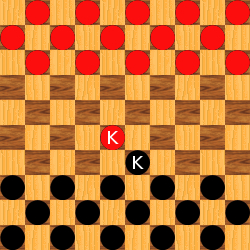
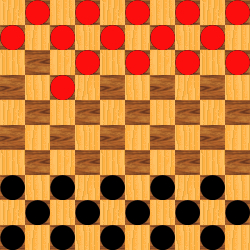
rules

diff --git a/gamerules.js b/gamerules.js
@@ -1,0 +1,314 @@
+function Game(player1, player2) {
+	this.red = player1;
+	this.black = player2;
+	this.board = [
+	// 0 , 1 , 2 , 3 , 4 , 5 , 6 , 7 , 8 , 9
+	 ['e','r','e','r','e','r','e','r','e','r'], // 0
+	 ['r','e','r','e','r','e','r','e','r','e'], // 1
+	 ['e','r','e','r','e','r','e','r','e','r'], // 2
+	 ['e','e','e','e','e','e','e','e','e','e'], // 3
+	 ['e','e','e','e','e','e','e','e','e','e'], // 4
+	 ['e','e','e','e','e','e','e','e','e','e'], // 5
+	 ['e','e','e','e','e','e','e','e','e','e'], // 6
+	 ['b','e','b','e','b','e','b','e','b','e'], // 7
+	 ['e','b','e','b','e','b','e','b','e','b'], // 8
+	 ['b','e','b','e','b','e','b','e','b','e']  // 9
+	
+	];
+}
+var testgame = new Game("p1","p2");
+
+var jimp  = require("jimp");
+var board = new jimp.read("Images/DraughtsBoard.png");
+var red = new jimp.read("Images/RedDraughtsPeice.png");
+var black = new jimp.read("Images/BlackDraughtsPeice.png");
+var blackKing = new jimp.read("Images/BlackDraughtsPeiceKing.png");
+var redKing = new jimp.read("Images/RedDraughtsPeiceKing.png");	
+	
+
+// check diagnals immediately around the piece location
+
+function checkmove(sY,sX,eY,eX,color,king,gboard) {
+	console.log(sX + " - " + sY);
+	console.log(gboard[sX][sY]);
+	console.log(eX + " - " + eY);
+	console.log(gboard[eX][eY]);
+	
+	// end location valid
+	if(eX < 0 || eX > 9 || eY < 0 || eY > 9 || eY == sY || eX == sX) {
+		console.log("end location invalid! - ");
+		return false;
+	}
+	
+	// check horizontal and vertical move is attempted
+	if(sX == eX || sY == eY) {
+		console.log("horizontal move! - ");
+		return false;
+	}
+	
+	// check distance too far
+	if( Math.abs(sX - eX) > 2 ||  Math.abs(sY - eY) > 2 ) {
+		console.log("too far! - ");
+		return false;
+	}
+	
+	// check standard diagnal
+	if(Math.abs(sX - eX) + Math.abs(sY - eY) == 2) {
+		if(gboard[eX][eY] != 'e') {
+			console.log("not empty! - ");
+			return false;
+		}
+		else {
+			if(king == true) {
+				return true;
+			}
+			else {
+				if(color == 'r' && eY < sY) {
+					console.log("can't go back(red)! - ");
+					return false;
+				}
+				else {
+					if(color == 'b' && eY > sY) {
+						console.log("can't go back(black)! - ");
+						return false;
+					}
+					else {
+						return true;
+					}
+				}
+			}
+		}
+	}
+	// check attack diagnal
+	else {
+		if(gboard[eX][eY] == 'e') {
+			// identify horizontal direction
+			var tmpeX = 0;
+			if(eX > sX) {
+				tmpeX =- 1;
+			}
+			else {
+				tmpeX =+ 1;
+			}
+			// identify vertical direction
+			var tmpeY = 0;
+			if(eY > sY) {
+				tmpeY =- 1;
+			}
+			else {
+				tmpeY =+ 1;
+			}
+			
+			// if red
+			if(color == 'r' && (gboard[eX + tmpeX][eY + tmpeY] == 'b' || gboard[eX + tmpeX][eY + tmpeY] == 'n')) {
+				return true;
+			}
+			else {
+			// if black
+			if(color == 'b' && (gboard[eX + tmpeX][eY + tmpeY] == 'r' || gboard[eX + tmpeX][eY + tmpeY] == 't')) {
+				return true;
+			}
+			else {
+				return false;
+			}
+			}
+		}
+		else {
+			return false;
+		}
+	}
+	
+	return null;
+}
+
+// x and y are reversed due to array mechanics sY will need to take value for sX and vice versa
+function turn(color,sY,sX,eY,eX) {
+	
+	console.log(testgame.board);
+	Promise.all([board,red,black,redKing,blackKing]).then(function(i){
+	var tmpBoard = i[0];
+	
+	
+	for(var x = 0; x <= 9; x++) {
+		for(var y = 0;y <= 9;y++) {
+			if(testgame.board[x][y] == 'r') {
+				tmpBoard.composite(i[1],y*25,x*25);
+			}
+			if(testgame.board[x][y] == 'b') {
+				tmpBoard.composite(i[2],y*25,x*25);
+			}
+			if(testgame.board[x][y] == 't') {
+				tmpBoard.composite(i[3],y*25,x*25);
+			}
+			if(testgame.board[x][y] == 'n') {
+				tmpBoard.composite(i[4],y*25,x*25);
+			}
+			
+			
+		}
+	}
+	
+	tmpBoard.write("newBoard2.jpg");
+	});
+	
+	// is unit valid?
+	var val = false;
+	if(testgame.board[sX][sY] == 'e') {
+		val = false;
+	}
+	else {
+		if(color == 'r' && (testgame.board[sX][sY] == 'r' || testgame.board[sX][sY] == 't')) {
+			val = true;
+		}
+		else {
+			if(color == 'b' && (testgame.board[sX][sY] == 'b' || testgame.board[sX][sY] == 'n')) {
+			val = true;
+			}
+			else {
+				val = false;
+			}
+		}
+	}
+	
+	if(!val) {
+		return false;
+	}
+	
+	// king?
+	var king = false;
+	if(testgame.board[sX][sY] == 't' || testgame.board[sX][sY] == 'n') {
+		king = true;
+	}
+	
+	
+	// Valid move?
+	if(checkmove(sY,sX,eY,eX,'r',king,testgame.board) == true) {
+		
+		// remove piece if taken
+		if( Math.abs(sX - eX) == 2 ||  Math.abs(sY - eY) == 2) {
+			// identify horizontal direction
+			var tmpeX = 0;
+			if(eX > sX) {
+				tmpeX =- 1;
+			}
+			else {
+				tmpeX =+ 1;
+			}
+			// identify vertical direction
+			var tmpeY = 0;
+			if(eY > sY) {
+				tmpeY =- 1;
+			}
+			else {
+				tmpeY =+ 1;
+			}
+			
+			testgame.board[tmpeX][tmpeY] == 'e';
+		}
+		
+		// move piece
+		
+		var tmppiece = testgame.board[sX][sY];
+		testgame.board[sX][sY] = 'e';
+		testgame.board[eX][eY] = tmppiece;
+		console.log(tmppiece);
+		
+		// becomes king?
+		if(color == 'r' && eY == 9) {
+			testgame.board[eX][eY] = 't';
+		}
+		if(color == 'b' && eY == 9) {
+			testgame.board[eX][eY] = 'n';
+		}
+	}
+	console.log(testgame.board);
+		Promise.all([board,red,black,redKing,blackKing]).then(function(i){
+	var tmpBoard = i[0];
+	
+	
+	for(var x = 0; x <= 9; x++) {
+		for(var y = 0;y <= 9;y++) {
+			if(testgame.board[x][y] == 'r') {
+				tmpBoard.composite(i[1],y*25,x*25);
+			}
+			if(testgame.board[x][y] == 'b') {
+				tmpBoard.composite(i[2],y*25,x*25);
+			}
+			if(testgame.board[x][y] == 't') {
+				tmpBoard.composite(i[3],y*25,x*25);
+			}
+			if(testgame.board[x][y] == 'n') {
+				tmpBoard.composite(i[4],y*25,x*25);
+			}
+			
+			
+		}
+	}
+	
+	tmpBoard.write("newBoard3.jpg");
+	});
+}
+
+turn('r',1,2,2,3);
+//console.log(checkmove(1,2,3,4,'r',false,board));
+
+
+/* function checksurroundRED(x,y) {
+					
+	var results = [null,null,	// top left
+				   null,null,	// top right
+				   null,null,	// bottom right
+				   null,null	// bottom left
+	];
+	
+	// check top left
+	if(x > 0 && y > 0) {
+		if(board[x-1][y-1] != 'e') {
+			// enemy?
+			if(board[x-1][y-1] == 'b' || board[x-1][y-1] == 'n') {
+				// check + 1
+				if(x > 1 && y > 1) {
+					if(board[x-1][y-1] != 'e') {
+						results[1] = false;
+					}
+					else {
+						results[1] = true;
+					}
+				}
+				else {
+					results[1] = false;
+				}
+			}
+			else {
+				results[0] = false;
+				results[1] = false;
+			}
+		}
+		else {
+			results[0] = true;
+			results[1] = false;
+		}
+	}
+	else {
+		results[0] = false;
+		results[1] = false;
+	}
+	
+	// check top right
+	if(x > 0 && y < 9) {
+		if(board[x][y] != 'e') {
+			// enemy?
+			if(board[x-1][y-1] == 'b' || board[x-1][y-1] == 'n') {
+		
+			}
+		}
+		else {
+			results[2] = true;
+			results[3] = false;
+		}
+	}
+	else {
+		results[2] = false;
+		results[3] = false;
+	}
+} */
